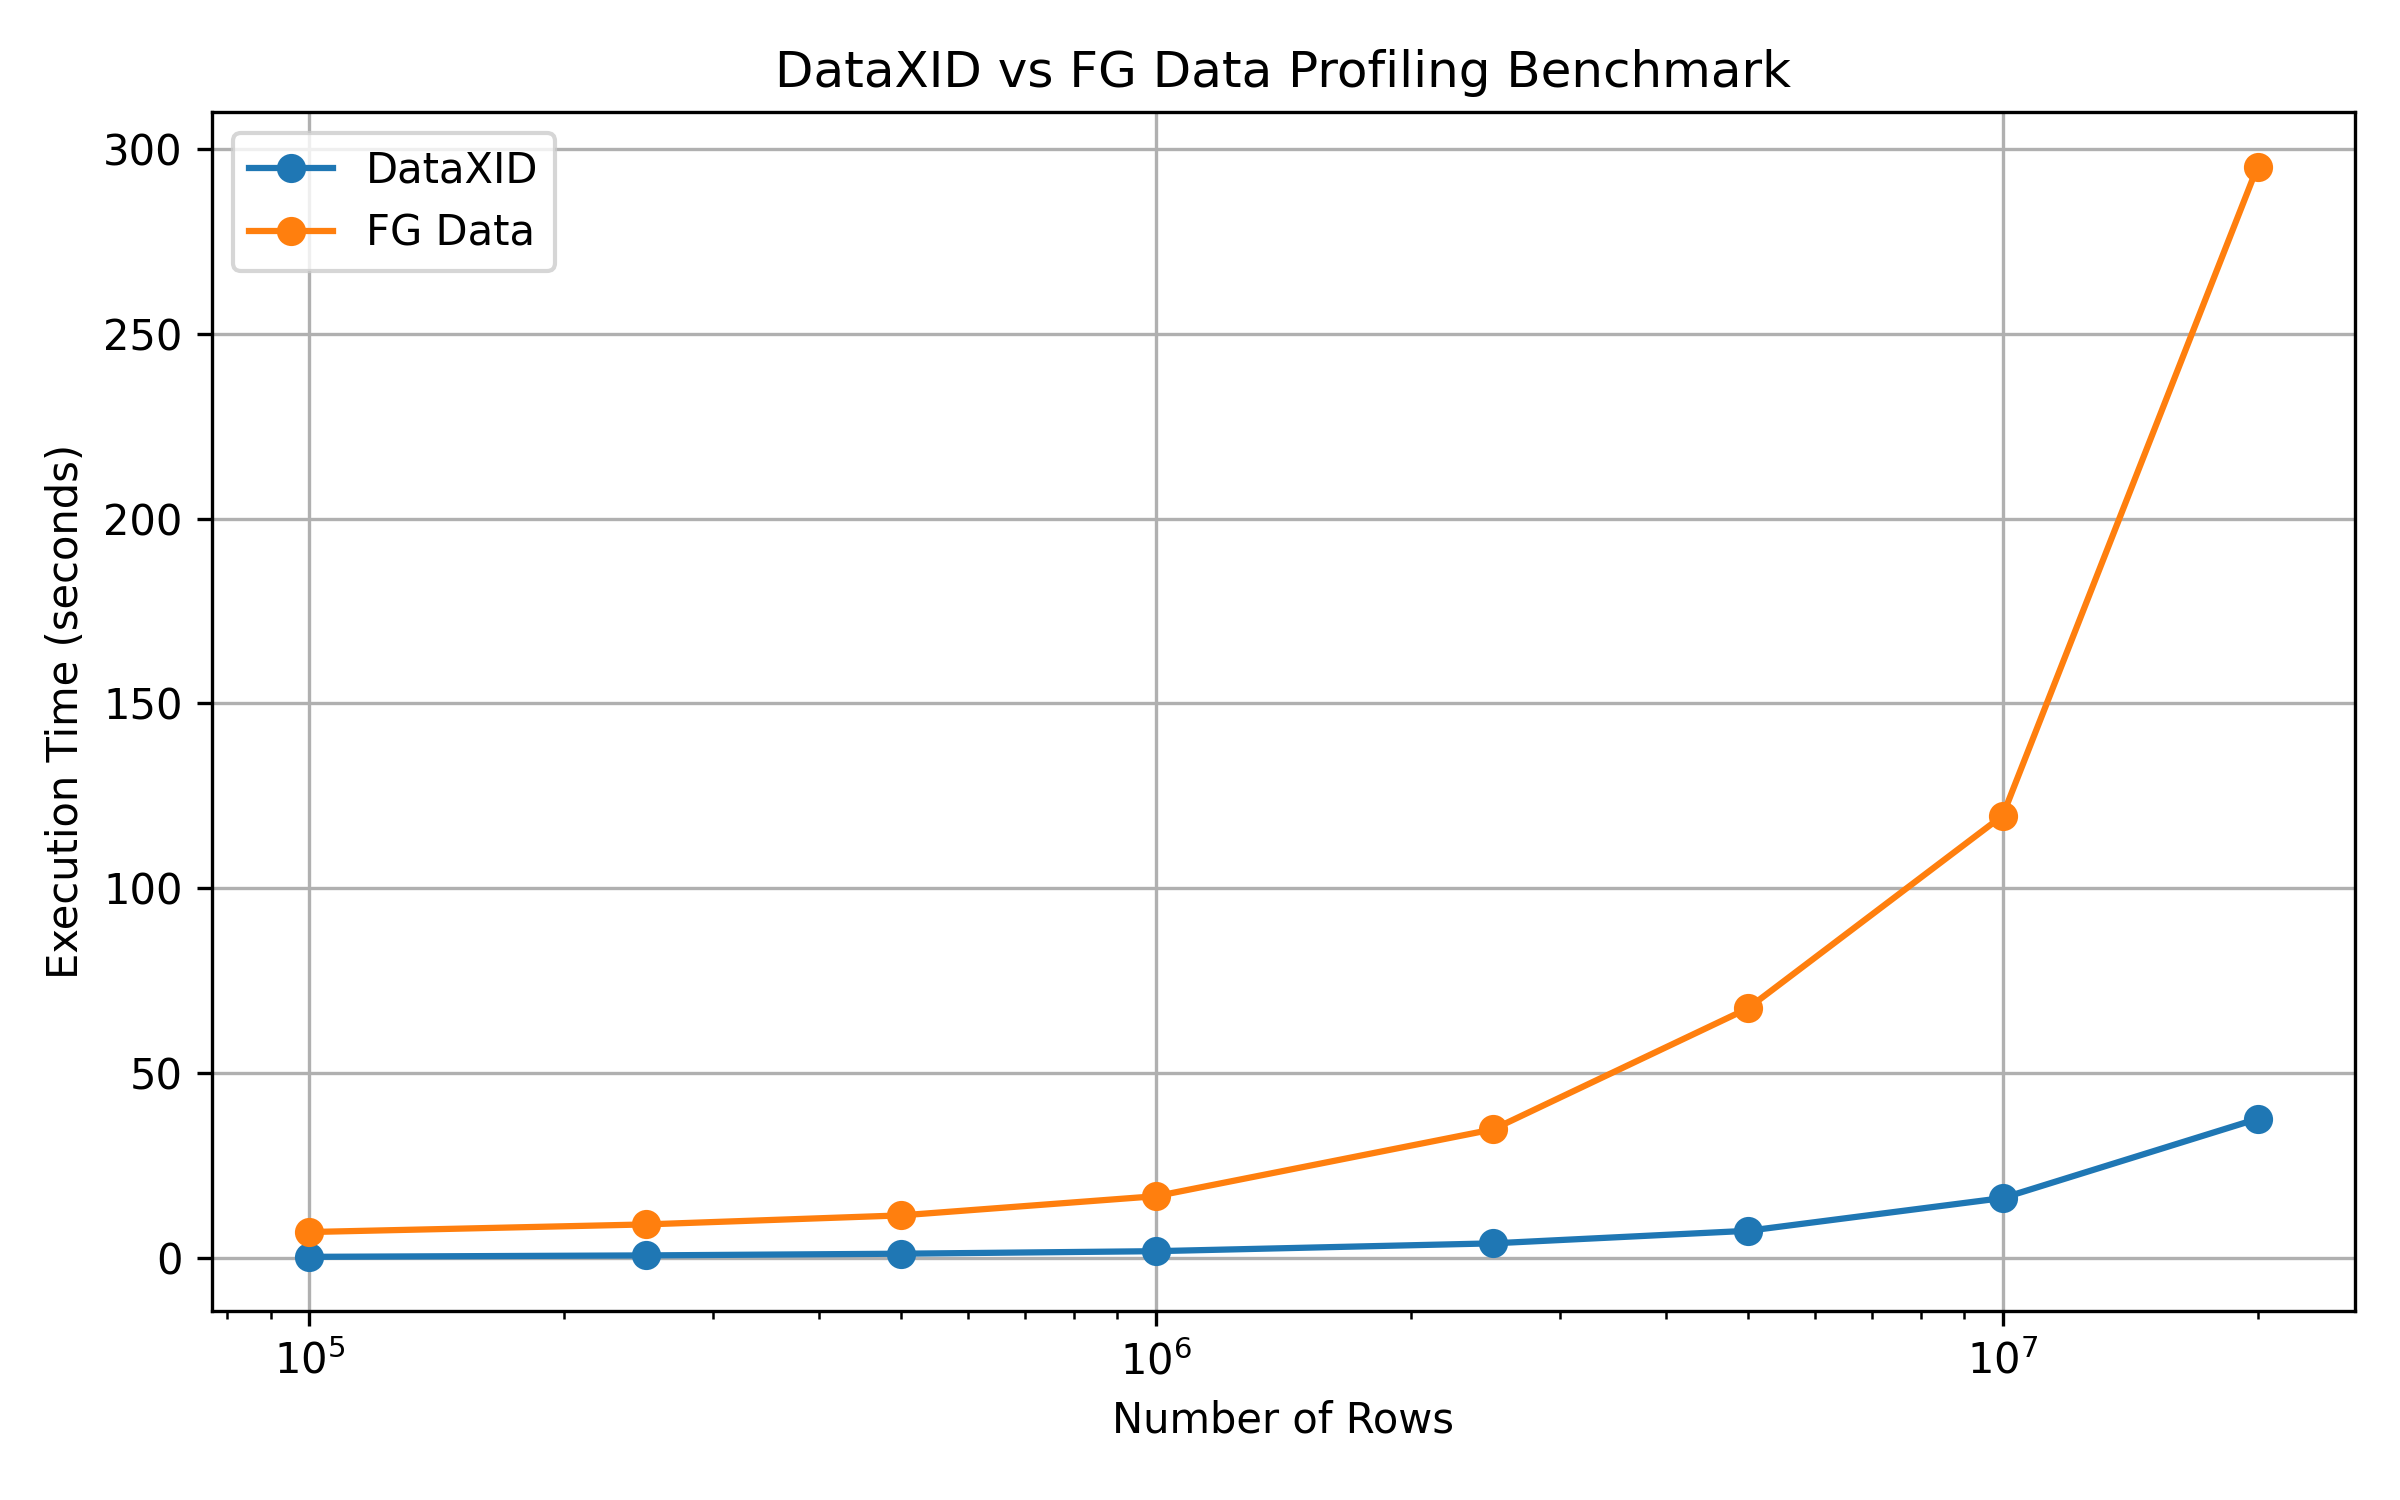
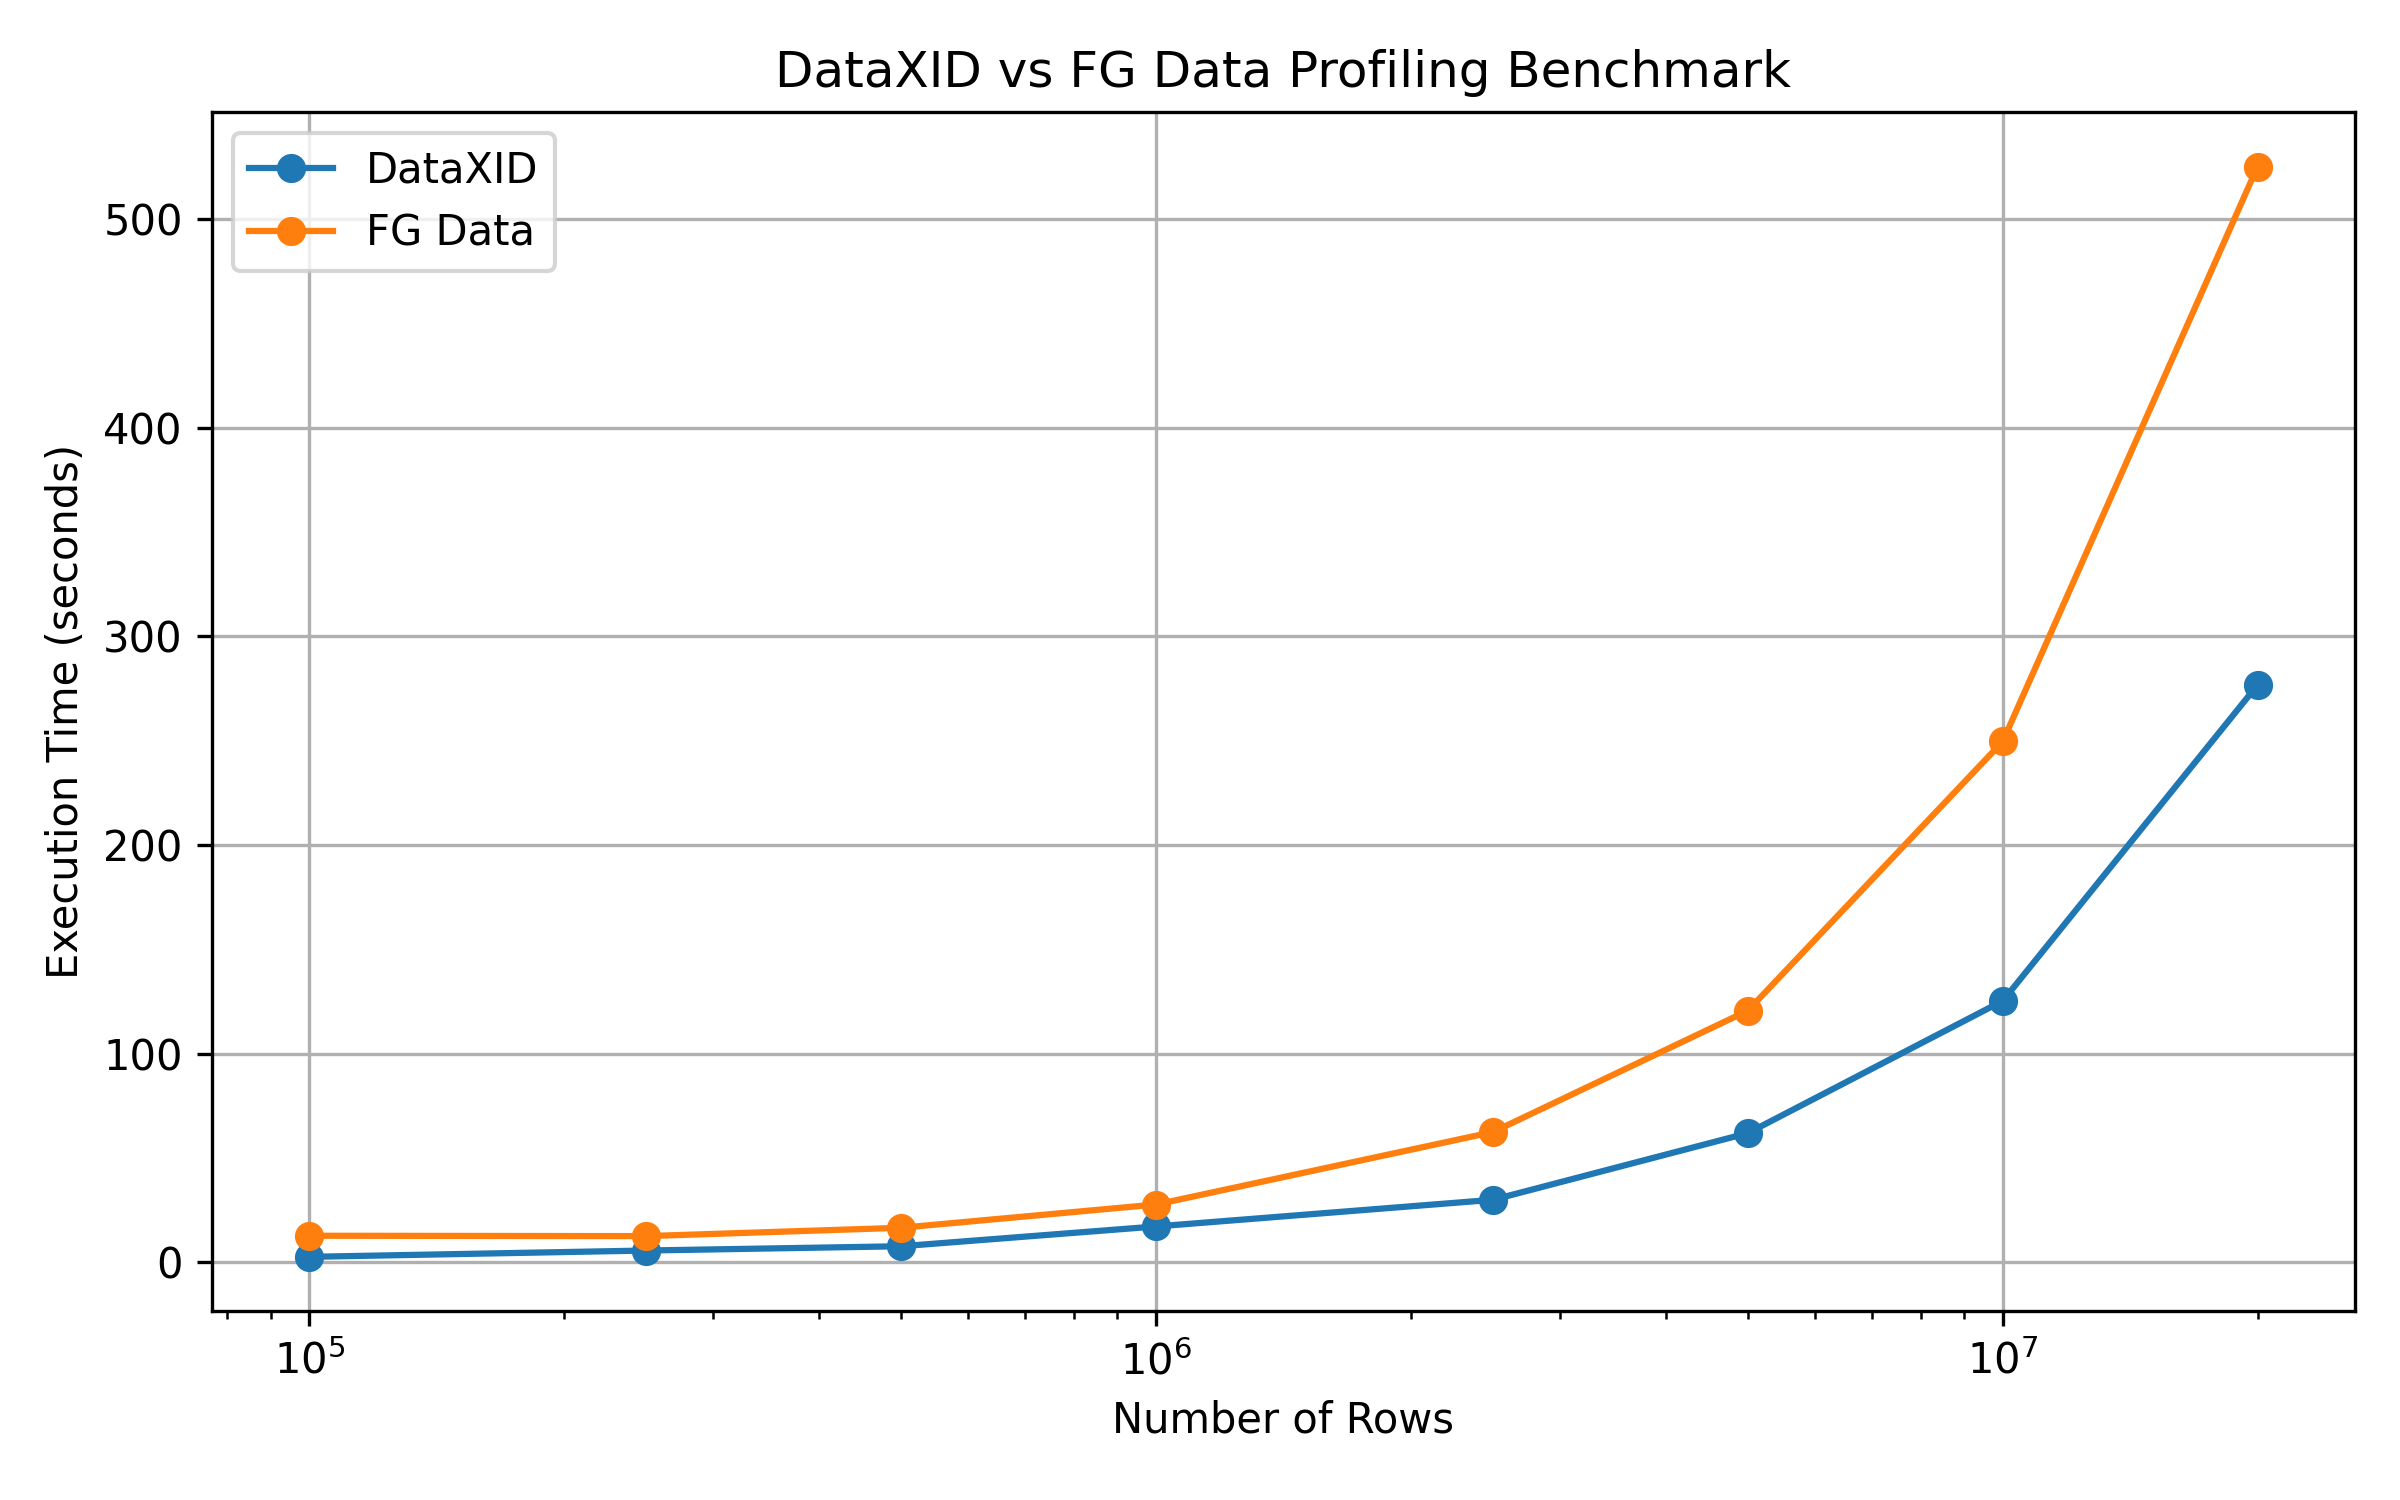
Compare complete modes in benchmark with correlation and iterations enabled, and make minor adjustments to the generator

diff --git a/benchmarks/generator.py b/benchmarks/generator.py
@@ -29,6 +29,10 @@ class DatasetGenerator:
 
         self.df = pd.read_csv(csv_path)
 
+        ID_LIKE_COLUMNS = ["Sales_ID", "Sales_Region", "Sales_Representative"]
+
+        self.df = self.df.drop(columns=[c for c in ID_LIKE_COLUMNS if c in self.df.columns])
+
         # Remove pandas exported index column
         if "Unnamed: 0" in self.df.columns:
             self.df = self.df.drop(columns=["Unnamed: 0"])

diff --git a/benchmarks/config.py b/benchmarks/config.py
@@ -40,7 +40,7 @@ def get_dataxid_overview_config() -> ProfileConfig:
     """Config used for the scaling benchmark (fast, no correlations)."""
 
     return ProfileConfig(
-        mode="overview",
+        mode="complete",
 
         # Type inference
         text_unique_ratio=0.5,

diff --git a/README.md b/README.md
@@ -3,13 +3,18 @@ Benchmark studies for evaluating **DataXID Profiling** performance.
 ## Benchmarks
 This repository contains comparisons between:
 - DataXID Profiling vs YData Profiling (single-run, fixed-size dataset)
-- DataXID Profiling vs YData Profiling (scaling benchmark, multiple dataset sizes)
+- DataXID Profiling vs YData Profiling (scaling benchmark, overview mode)
+- DataXID Profiling vs YData Profiling (scaling benchmark, complete mode — correlations and interactions enabled on both sides)
 > Note: "FG Data" in this repo refers to YData Profiling, a pandas-based profiling library.
  
 There are two single-run scripts that profile a fixed dataset once and print
 detailed stats (`benchmark_dataxid_profiling.py`, `benchmark_fgdata_profiling.py`),
 and one scaling benchmark that runs both libraries across a range of dataset
-sizes and produces a comparison plot (`benchmark_dataxid_vs_pandas.py`).
+sizes and produces a comparison plot (`benchmark_dataxid_vs_pandas.py`). The
+scaling benchmark has been run in two configurations: overview mode (fast
+path, correlations/interactions disabled on both sides) and complete mode
+(all correlation types and interactions enabled on both sides, for an
+apples-to-apples full-feature comparison).
 ## Dataset
 Benchmark tests use the Kaggle **Retail Sales Data** dataset (`sales_20k.csv`) as a seed.
  
@@ -24,13 +29,17 @@ The single-run scripts profile the seed dataset as-is.
 Measured metrics:
 - Execution time (profiling time and HTML report generation time, measured separately)
 - Memory usage (RAM before/after profiling, single-run scripts only)
-- Alert / correlation / interaction counts (can be active or deactive for this sample it is deactive)
+- Alert / correlation / interaction counts (disabled in the overview-mode run, enabled in the complete-mode run)
 - Scalability across dataset sizes (scaling benchmark only)
 ## Result
-DataXID Profiling vs YData Profiling, across dataset sizes:
-![DataXID vs FG Data](benchmark_dataxid_vs_fgdata.png)
+DataXID Profiling vs YData Profiling, overview mode:
+![DataXID vs FG Data - overview mode](benchmark_dataxid_vs_fgdata.png)
+
+DataXID Profiling vs YData Profiling, complete mode (correlations and interactions enabled):
+<img width="2400" height="1500" alt="benchmark_dataxid_vs_fgdata" src="https://github.com/user-attachments/assets/e4d75b9b-b59c-4cfe-bfdf-8978059d6d16" />
 ## Installation
-```bash
+```bash![Uploading benchmark_dataxid_vs_pandas.png…]()
+
 pip install -r requirements.txt
 ```
 ## Run
@@ -49,4 +58,3 @@ python benchmark_dataxid_vs_pandas.py
 - Python
 - DataXID Profiling
 - YData Profiling (FG Data)
-- Pandas
